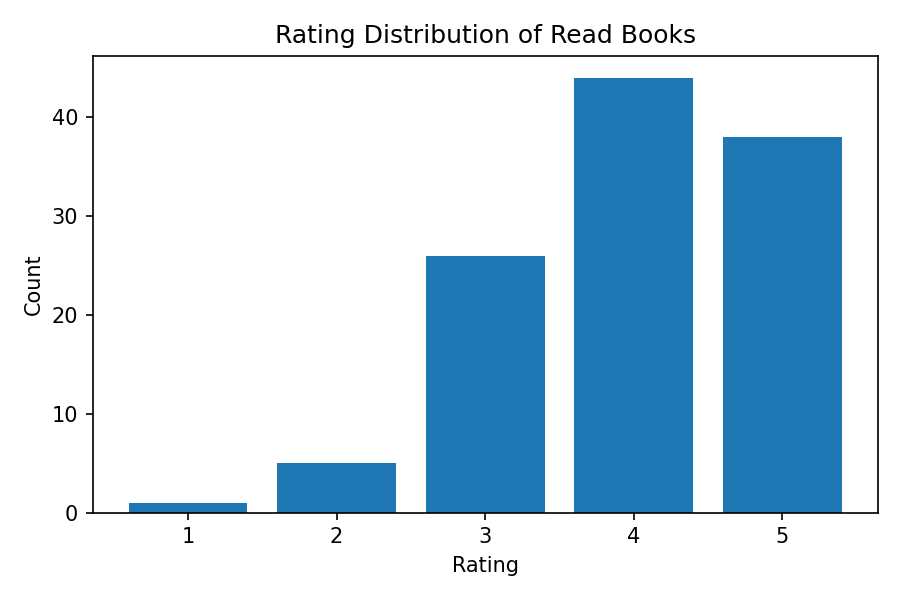
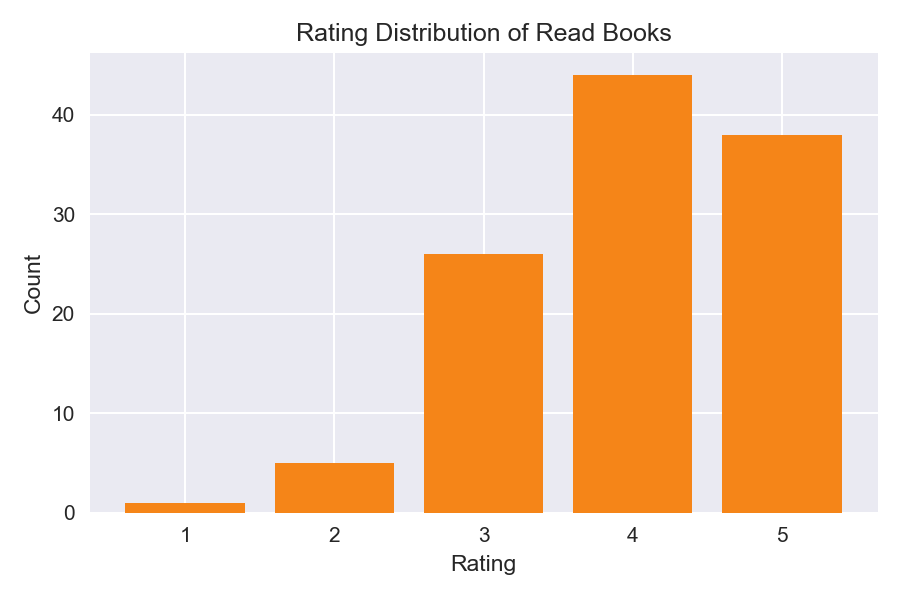
Insights added to charts + styling

diff --git a/templates/dashboard.html b/templates/dashboard.html
@@ -12,7 +12,12 @@
 
         <img src="{{ url_for('static', filename=chart1) }}">
         <img src="{{ url_for('static', filename=chart2) }}">
-        
+
+        <div class="card">
+            <h2>Most Active Year</h2>
+            <p>{{ stats.favorite_year }} ({{ stats.best_year_count }} books)</p>
+        </div>
+
         <a href="/upload">Upload another file</a>
     </body>
 </html>

diff --git a/app.py b/app.py
@@ -44,17 +44,37 @@ def upload_file():
 def analyze(filename):
     file_path = os.path.join(app.config["UPLOAD_FOLDER"], filename)
 
-    
-
     df = pd.read_csv(file_path)
     # Clean Up Goodreads CSV
     df.columns = [c.strip() for c in df.columns]
 
     # Split up based on reading status 
+    df["Exclusive Shelf"] = df["Exclusive Shelf"].astype(str).str.strip().str.lower()
+
     read_df = df[df["Exclusive Shelf"] == "read"]
     to_read_df = df[df["Exclusive Shelf"] == "to-read"]
     current_df = df[df["Exclusive Shelf"] == "currently-reading"]
     
+    # Insights on Data
+    favorite_year = None
+    best_year_count = None
+    year_counts = pd.Series(dtype=int)
+
+    if len(read_df) > 0:
+        temp = read_df.copy()
+        temp["Date Read"] = pd.to_datetime(temp["Date Read"], errors="coerce")
+        temp = temp.dropna(subset=["Date Read"])
+
+        temp["Year"] = temp["Date Read"].dt.year
+        
+        temp["Year"] = temp["Year"].astype("int64")
+
+        year_counts = temp.groupby("Year").size().sort_index()
+
+        if len(year_counts) > 0:
+            favorite_year = int(year_counts.idxmax())
+            best_year_count = int(year_counts.max())
+
     # ----- STATS -----
     stats = {
         "total_books": len(df),
@@ -62,11 +82,14 @@ def analyze(filename):
         "to_read": len(to_read_df),
         "currently_reading": len(current_df),
         "avg_rating": round(read_df["My Rating"].mean(), 2) if len(read_df) > 0 else "N/A",
-        "most_common_author": read_df["Author"].mode()[0] if len(read_df) > 0 else "N/A"
+        "most_common_author": read_df["Author"].mode()[0] if len(read_df) > 0 else "N/A",
+        "favorite_year": favorite_year,
+        "best_year_count": best_year_count
     }
 
     # Create Static folder if doesn't exsits
     os.makedirs("static", exist_ok=True)
+    plt.style.use("seaborn-v0_8")
 
     # ----- CHART 1: Rating Distribution -----
     chart1_path = os.path.join("static", "rating_chart.png")
@@ -77,7 +100,11 @@ def analyze(filename):
         rating_counts = read_df["My Rating"].value_counts().sort_index()
         rating_counts = rating_counts[rating_counts.index > 0]
 
-        plt.bar(rating_counts.index.astype(int), rating_counts.values)
+        plt.bar(
+            rating_counts.index.astype(int), 
+            rating_counts.values,
+            color="#F58518"
+        )
 
         plt.title("Rating Distribution of Read Books")
         plt.xlabel("Rating")
@@ -91,30 +118,27 @@ def analyze(filename):
     # ----- CHART 2: Books Per Year -----
     chart2_path = os.path.join("static", "year_chart.png")
 
-    if len(read_df) > 0:
-        temp = read_df.copy()
-        temp["Date Read"] = pd.to_datetime(temp["Date Read"], errors="coerce")
-        temp = temp.dropna(subset=["Date Read"])
+    if len(year_counts) > 0:
+        plt.figure(figsize=(7,4))
 
-        temp["Year"] = temp["Date Read"].dt.year
-        
-        temp["Year"] = temp["Year"].astype("int64")
-
-        year_counts = temp.groupby("Year").size().sort_index()
-
-        plt.figure(figsize=(6,4))
-
-        plt.plot(year_counts.index.astype(int), year_counts.values, marker="o")
+        plt.bar(
+            year_counts.index.astype(int), 
+            year_counts.values, 
+            color="#4C78A8"
+        )
 
         plt.title("Books Read Per Year")
         plt.xlabel("Year")
         plt.ylabel("Books")
-        plt.xticks(year_counts.index.astype(int))
         
+        plt.xticks(year_counts.index.astype(int))
+        plt.grid(axis="y", linestyle="--", alpha=0.3)
+
         plt.tight_layout()
         plt.savefig(chart2_path, dpi=150)
         plt.close()
 
+    # Render
     return render_template(
         "dashboard.html", 
         stats=stats,
